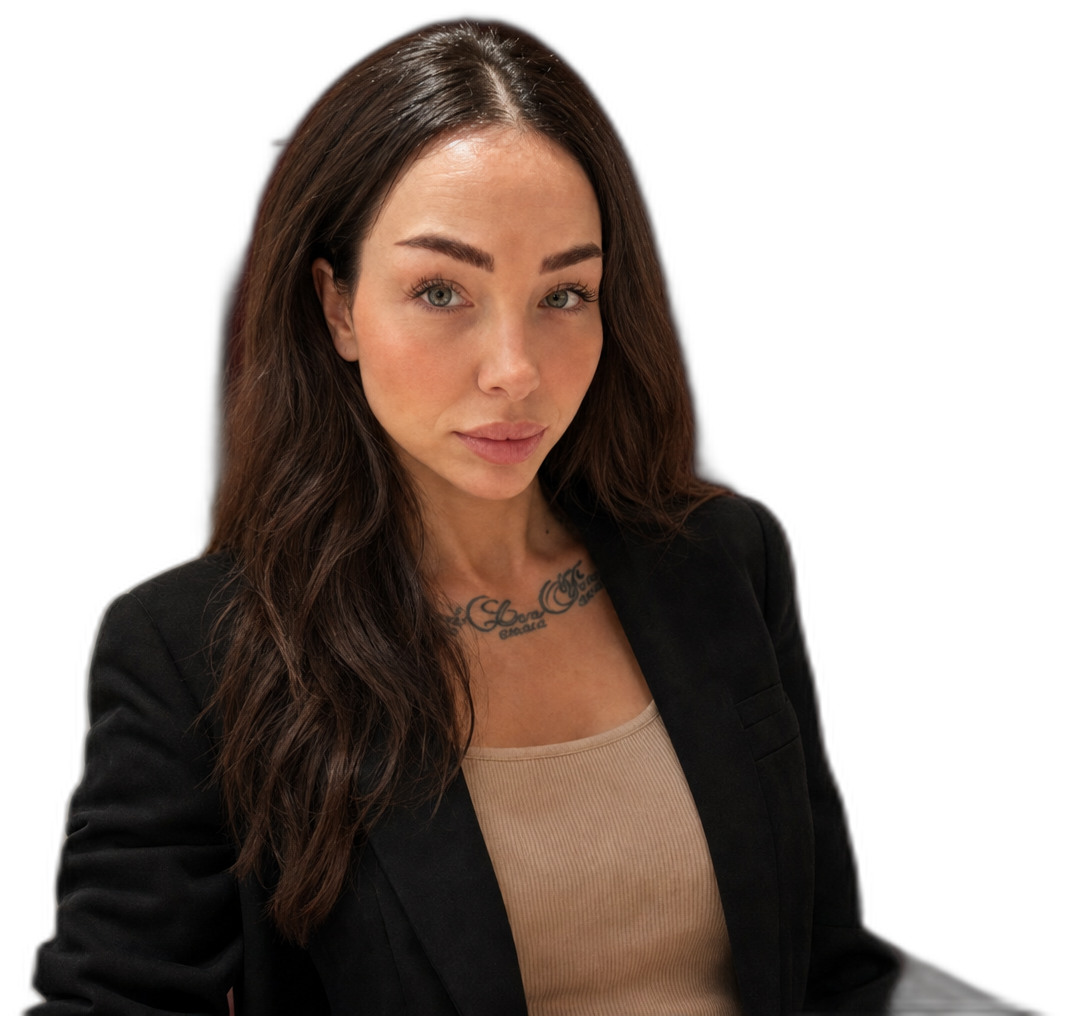
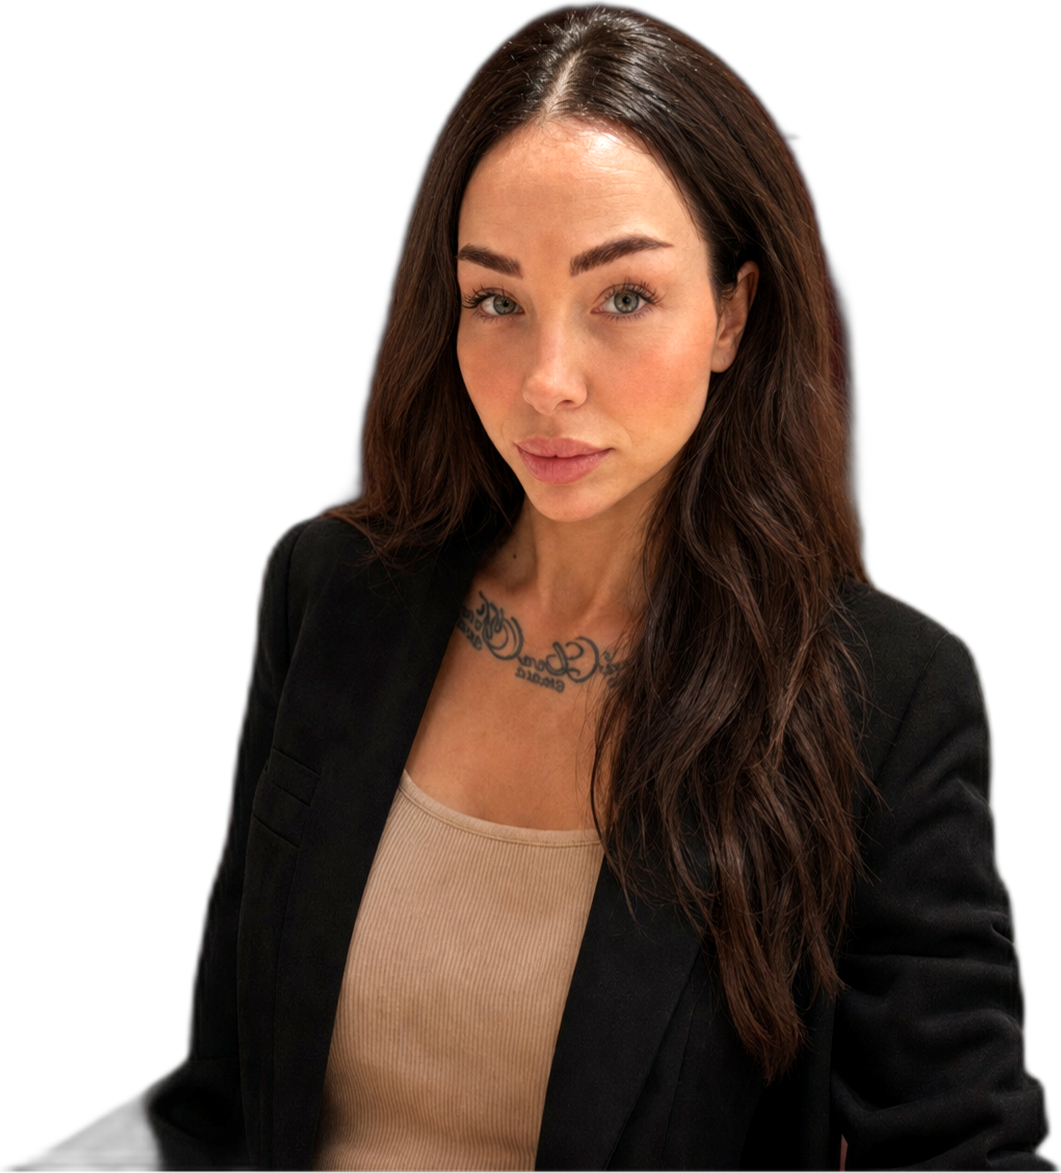
Vylepšit Nia hero cutout — ořez, retuš, zrcadlení a větší výška.
Upravit PNG postavu a CSS, aby fotka lépe seděla dole v hero bez rámu.

diff --git a/public/nia/index.html b/public/nia/index.html
@@ -56,10 +56,10 @@ img{display:block;max-width:100%}
 /* HERO */
 .hero{position:relative;min-height:100vh;background:var(--black);color:#fff;display:flex;flex-direction:column;justify-content:center;overflow:hidden}
 .hero-layout{display:grid;grid-template-columns:.92fr 1.08fr;gap:32px;align-items:end}
-.hero-portrait{position:relative;justify-self:end;width:100%;max-width:min(560px,46vw);opacity:0;animation:fadeUp 1s .7s forwards;align-self:end}
+.hero-portrait{position:relative;justify-self:end;width:auto;max-width:min(620px,50vw);opacity:0;animation:fadeUp 1s .7s forwards;align-self:end;display:flex;align-items:flex-end;justify-content:flex-end}
 .hero-portrait::before{display:none}
-.hero-portrait::after{content:'';position:absolute;inset:8% 0 -6% 0;background:radial-gradient(ellipse at 50% 72%,rgba(214,152,133,.42),transparent 68%);z-index:0;pointer-events:none}
-.hero-portrait img{position:relative;z-index:1;width:100%;height:auto;max-height:min(84vh,820px);object-fit:contain;object-position:bottom center;display:block;filter:drop-shadow(0 28px 48px rgba(0,0,0,.45))}
+.hero-portrait::after{content:'';position:absolute;inset:10% -4% -2% -4%;background:radial-gradient(ellipse at 50% 78%,rgba(214,152,133,.38),transparent 72%);z-index:0;pointer-events:none}
+.hero-portrait img{position:relative;z-index:1;width:auto;max-width:100%;height:min(92vh,900px);object-fit:contain;object-position:bottom center;display:block;transform:scale(1.06);transform-origin:bottom center;filter:drop-shadow(0 32px 52px rgba(0,0,0,.48))}
 .hero-portrait .tag{position:absolute;left:0;bottom:12%;z-index:2;background:rgba(32,16,15,.82);backdrop-filter:blur(8px);
   color:var(--rg3);font-size:.68rem;letter-spacing:.18em;text-transform:uppercase;font-weight:600;padding:10px 16px;border-radius:30px}
 .hero::before{content:'';position:absolute;top:-25%;right:-12%;width:62vw;height:62vw;border-radius:50%;
@@ -288,8 +288,8 @@ img{display:block;max-width:100%}
 /* RESPONSIVE */
 @media(max-width:980px){
   .hero-layout{grid-template-columns:1fr;gap:24px;align-items:end}
-  .hero-portrait{max-width:min(380px,92vw);justify-self:center}
-  .hero-portrait img{max-height:min(62vh,520px)}
+  .hero-portrait{max-width:min(420px,94vw);justify-self:center}
+  .hero-portrait img{height:min(68vh,560px);transform:scale(1.04)}
   .hero-inner{padding:96px 0 72px}
   .work-item,.work-item.rev{grid-template-columns:1fr;gap:34px}
   .work-item.rev .work-meta{order:0}
@@ -348,7 +348,7 @@ img{display:block;max-width:100%}
         </div>
       </div>
       <div class="hero-portrait">
-        <img src="/nia/photos/nia-hero-cutout.png" alt="Nia Dobyšar — webdesignérka" width="1067" height="1024" loading="eager">
+        <img src="/nia/photos/nia-hero-cutout.png" alt="Nia Dobyšar — webdesignérka" width="1061" height="1173" loading="eager">
         <span class="tag">Webdesign · Praha &amp; Brno</span>
       </div>
     </div>
